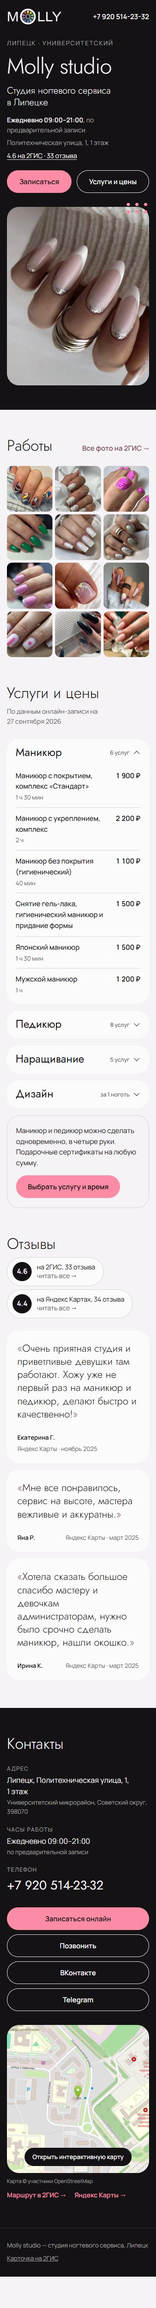
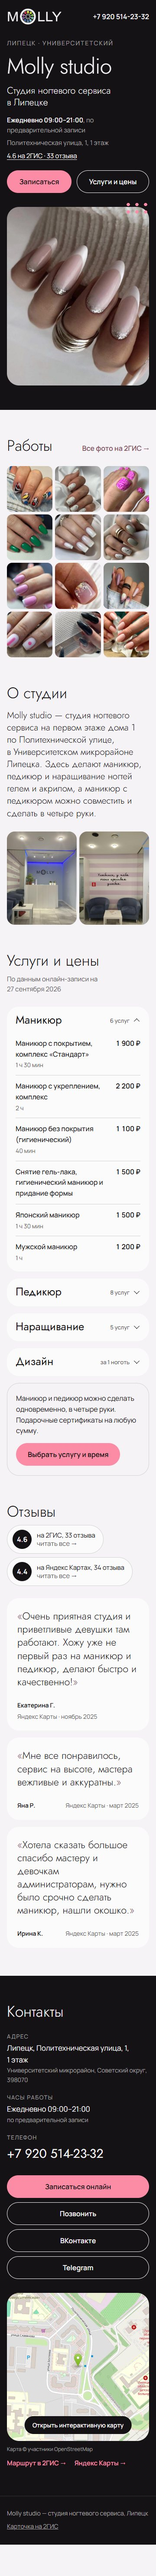
Блок «О студии»: текст из проверенных фактов и фото интерьера
- блок включён между «Работы» и «Услуги и цены»
- текст только из брифа и описания сообщества ВК, без оценочных формулировок
- два фото интерьера без людей из раздела «Внутри» галереи 2ГИС
- список мастеров оставлен скрытым (hidden) с шаблоном карточки —
  данных о мастерах от студии нет
- TODO.md, README.md и скриншоты preview/ обновлены

diff --git a/index.html b/index.html
@@ -136,21 +136,24 @@
     </section>
 
     <!--
-      БЛОК «О СТУДИИ» — заготовка, пока скрыт: клиент ещё не прислал текст и фото мастеров.
-      Что вписать — см. TODO.md, раздел «Блок «О студии»».
-      Как включить:
-        1. Вписать текст студии в <p class="about__lead">.
-        2. Для каждого мастера раскомментировать карточку <li class="master"> (шаблон ниже),
-           положить фото в assets/masters/ и вписать имя и специализацию.
-        3. Убрать класс is-draft у <section id="about"> — блок появится.
+      БЛОК «О СТУДИИ». Текст собран только из проверенных фактов (бриф и описание сообщества ВК),
+      фото — раздел «Внутри» галереи 2ГИС. Когда студия пришлёт свой текст — заменить <p class="about__lead">.
+      Мастера пока скрыты (атрибут hidden у <ul class="masters">): нет данных от студии.
+      Как показать мастеров: раскомментировать шаблон <li class="master"> для каждого,
+      положить фото в assets/masters/, вписать имя и специализацию и убрать hidden у списка.
+      Скрыть весь блок: добавить класс is-draft к <section id="about">.
     -->
-    <section class="section about is-draft" id="about" aria-labelledby="about-title" data-todo="about">
+    <section class="section about" id="about" aria-labelledby="about-title">
       <div class="wrap about__grid">
         <div class="about__text">
           <h2 id="about-title">О студии</h2>
-          <p class="about__lead" data-todo="about-text"></p>
+          <p class="about__lead" data-source="brief, vk.com/molly_48">Molly studio — студия ногтевого сервиса на первом этаже дома 1 по&nbsp;Политехнической улице, в&nbsp;Университетском микрорайоне Липецка. Здесь делают маникюр, педикюр и наращивание ногтей гелем и акрилом, а маникюр с педикюром можно совместить и сделать в&nbsp;четыре руки.</p>
         </div>
-        <ul class="masters" aria-label="Мастера студии" data-todo="masters">
+        <div class="about__photos" data-source="2gis-gallery-inside">
+          <img src="assets/about/studio-reception.jpg" width="600" height="800" loading="lazy" decoding="async" alt="Ресепшен студии: белая стойка, логотип Molly на голубой стене">
+          <img src="assets/about/studio-lounge.jpg" width="600" height="800" loading="lazy" decoding="async" alt="Зона ожидания: синие кресла у стены в сиреневую полоску">
+        </div>
+        <ul class="masters" aria-label="Мастера студии" data-todo="masters" hidden>
           <!-- Шаблон карточки мастера (фото 600×600, JPEG ~75 %):
           <li class="master">
             <img class="master__photo" src="assets/masters/master-01.jpg" width="600" height="600" loading="lazy" decoding="async" alt="ИМЯ, мастер студии Molly">

diff --git a/style.css b/style.css
@@ -358,8 +358,7 @@ main .section + .section { padding-top: 0; }
 
 /* ---------- О студии (заготовка) ---------- */
 
-/* Блок скрыт, пока клиент не прислал текст и фото мастеров.
-   Чтобы включить: убрать класс is-draft у <section id="about"> в index.html. */
+/* Чтобы скрыть блок целиком: добавить класс is-draft к <section id="about"> в index.html. */
 .about.is-draft { display: none; }
 
 .about__grid {
@@ -380,14 +379,30 @@ main .section + .section { padding-top: 0; }
   line-height: 1.35;
 }
 
+.about__photos {
+  display: grid;
+  grid-template-columns: repeat(2, minmax(0, 1fr));
+  gap: 6px;
+}
+.about__photos img {
+  width: 100%;
+  aspect-ratio: 3 / 4;
+  object-fit: cover;
+  border-radius: var(--radius-md);
+  background: var(--line);
+}
+
 .masters {
   display: grid;
+  grid-column: 1 / -1;
   grid-template-columns: repeat(2, minmax(0, 1fr));
   gap: 16px;
   margin: 0;
   padding: 0;
   list-style: none;
 }
+/* список мастеров скрыт атрибутом hidden, пока нет данных от студии */
+.masters[hidden] { display: none; }
 
 .master {
   display: grid;
@@ -415,11 +430,16 @@ main .section + .section { padding-top: 0; }
   .masters { grid-template-columns: repeat(3, minmax(0, 1fr)); }
 }
 
+@media (min-width: 768px) {
+  .about__photos { gap: 12px; }
+}
+
 @media (min-width: 900px) {
   .about__grid {
     grid-template-columns: minmax(0, .9fr) minmax(0, 1.1fr);
     gap: 56px;
   }
+  .about__text { align-content: center; }
 }
 
 /* ---------- Услуги и цены ---------- */

diff --git a/TODO.md b/TODO.md
@@ -3,7 +3,7 @@
 Обновлено 27.09.2026. Сайт: https://artemdiscipline.github.io/molly-studio/
 
 На странице нет выдуманных фактов: цены — из YClients, рейтинги — с 2ГИС
-и Яндекс Карт, отзывы — с Яндекс Карт,
+и Яндекс Карт, отзывы — с Яндекс Карт, текст «О студии» — из брифа и ВК,
 строки про «четыре руки» и сертификаты — из ВКонтакте, остальное — из брифа.
 Скрытые заготовки помечены атрибутом `data-todo`.
 
@@ -26,23 +26,32 @@
   3 марта 2025 там появилось сразу четыре пятизвёздочных отзыва — похоже
   на акцию по сбору отзывов; два из трёх отзывов на сайте — из этого дня.
 
-- [ ] **Блок «О студии» — запросить материалы.** Заготовка стоит между
-  «Работы» и «Услуги и цены» и скрыта (`index.html`, около строки 146,
-  `<section id="about" class="… is-draft">`; в `style.css` правило
-  `.about.is-draft { display: none; }`). Что запросить:
-  1. **Текст о студии, 2–3 предложения**: с какого года работает, чем
-     отличается, какие материалы или подход. Только факты от студии.
-     Куда: `<p class="about__lead">` (около строки 150).
-  2. **Мастера** (для каждого, кого студия хочет показать):
-     - фото — портрет или за работой, хорошо освещённое, квадрат от
-       600×600 px; положить в `assets/masters/master-01.jpg`, `master-02.jpg`…;
-     - имя, как его подписывать на сайте (только имя или имя и первая буква фамилии);
-     - специализация (например, «маникюр и педикюр», «наращивание»).
-     Куда: внутри `<ul class="masters">` раскомментировать шаблон
-     `<li class="master">`, повторить по числу мастеров, подставить фото,
-     имя, специализацию и `alt` («Имя, мастер студии Molly»).
-  3. **Согласие мастеров** на публикацию фото и имени.
-  Как включить блок: убрать класс `is-draft` у `<section id="about">`.
+- [ ] **Блок «О студии» — текст от студии и мастера.** Блок включён и
+  стоит между «Работы» и «Услуги и цены» (`index.html`, `<section id="about">`).
+  Сейчас в нём:
+  - текст из проверенных фактов: адрес и район (бриф), услуги (бриф),
+    «в четыре руки» (описание сообщества ВК). Своих формулировок о качестве,
+    годах работы и т. п. нет;
+  - два фото интерьера из раздела «Внутри» галереи 2ГИС (ресепшен и зона
+    ожидания, без людей): `assets/about/studio-reception.jpg`,
+    `assets/about/studio-lounge.jpg`.
+
+  Что запросить у студии:
+  1. **Свой текст, 2–3 предложения**: с какого года работает, чем
+     отличается, какие материалы. Куда: `<p class="about__lead">`,
+     заменить текущий текст целиком.
+  2. **Мастера** (для каждого, кого показать):
+     - фото — портрет или за работой, квадрат от 600×600 px;
+       положить в `assets/masters/master-01.jpg`, `master-02.jpg`…;
+     - имя, как подписывать (только имя или имя и первая буква фамилии);
+     - специализация (например, «маникюр и педикюр», «наращивание»);
+     - согласие на публикацию фото и имени.
+     Куда: в `<ul class="masters">` раскомментировать шаблон
+     `<li class="master">`, повторить по числу мастеров, заполнить и убрать
+     у списка атрибут `hidden`. Имена мастеров из старых отзывов
+     (2022–2024) не использовать без подтверждения: в отзыве мая 2026
+     пишут, что мастера часто меняются.
+  3. **Оригиналы фото интерьера** — по желанию, если есть лучше этих.
 
 - [ ] **Расхождение цен YClients и ВКонтакте.** На сайте стоят цены из
   YClients (там же клиентки записываются). В закреплённом посте ВК «Новый

diff --git a/README.md b/README.md
@@ -30,6 +30,7 @@ assets/
   hero-560.jpg, hero-880.jpg  фото в шапке, 4:5
   works/work-NN-sq.jpg      превью работ, 480×480
   works/work-NN.jpg         крупные фото для просмотра, до 1080 px
+  about/studio-*.jpg        фото интерьера для блока «О студии», 600×800
   og-image.jpg              картинка для ссылок в мессенджерах, 1200×630
   map.jpg                   статичная карта-заглушка (снимок OpenStreetMap)
   favicon-32.png, apple-touch-icon.png
@@ -99,13 +100,15 @@ aria-label="5 из 5">★★★★★</span>` в начале `.meta`.
 
 ## Блок «О студии»
 
-Заготовка между «Работы» и «Услуги и цены», пока скрыта классом `is-draft`
-(правило `.about.is-draft { display: none; }` в `style.css`). Чтобы включить:
+Стоит между «Работы» и «Услуги и цены»: текст слева, два фото интерьера
+справа (`assets/about/`, 600×800). Текст — в `<p class="about__lead">`.
 
-1. Вписать 2–3 предложения от студии в `<p class="about__lead">`.
-2. Положить фото мастеров в `assets/masters/` (квадрат от 600×600) и
-   раскомментировать шаблон `<li class="master">` для каждого мастера.
-3. Убрать класс `is-draft` у `<section id="about">`.
+Мастера: список `<ul class="masters">` скрыт атрибутом `hidden`, внутри —
+закомментированный шаблон карточки. Чтобы показать: раскомментировать
+`<li class="master">` для каждого мастера, положить фото в
+`assets/masters/` (квадрат от 600×600) и убрать `hidden` у списка.
+
+Скрыть весь блок: добавить класс `is-draft` к `<section id="about">`.
 
 ## Как перекрасить сайт
 
@@ -150,6 +153,7 @@ https://yandex.ru/map-widget/v1/?ll=39.509700%2C52.604821&z=16&pt=39.509700%2C52
 | Логотип, «в четыре руки», сертификаты | https://vk.com/molly_48 |
 | Координаты для карты | карточка 2ГИС |
 | Картинка карты | снимок OpenStreetMap, © участники OpenStreetMap |
+| Фото интерьера | https://2gis.ru/lipetsk/gallery/firm/70000001057707807 (раздел «Внутри») |
 | Палитра | пипеткой: логотип, обложка ВК, фото интерьера |
 
 ## Скорость
